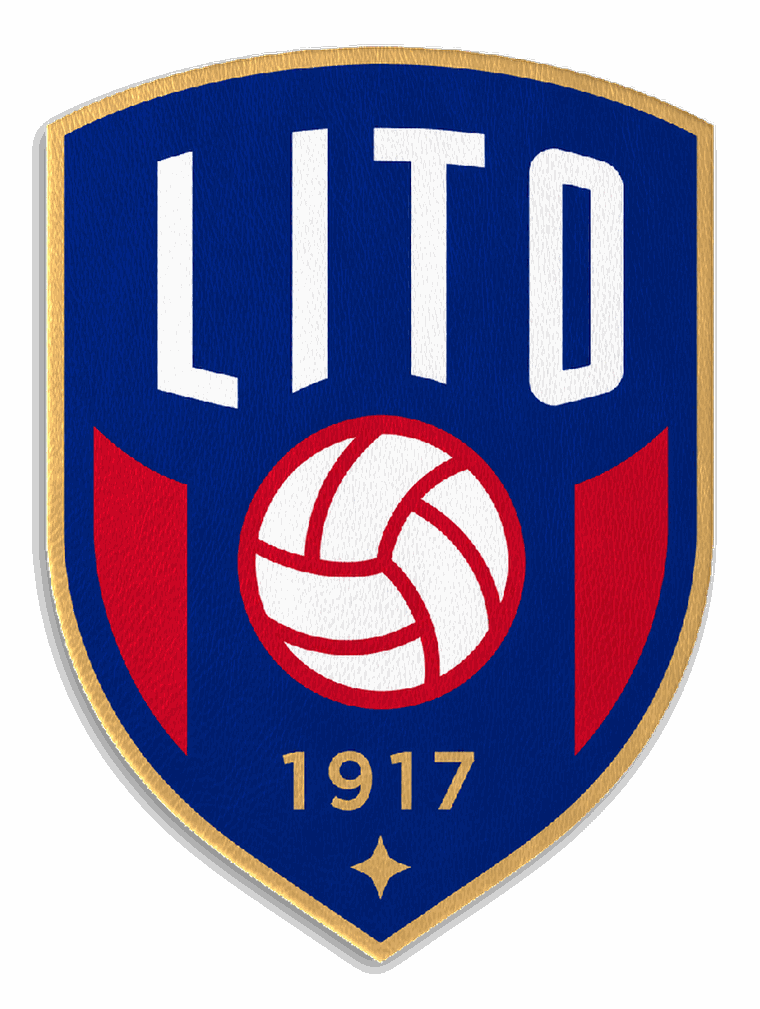
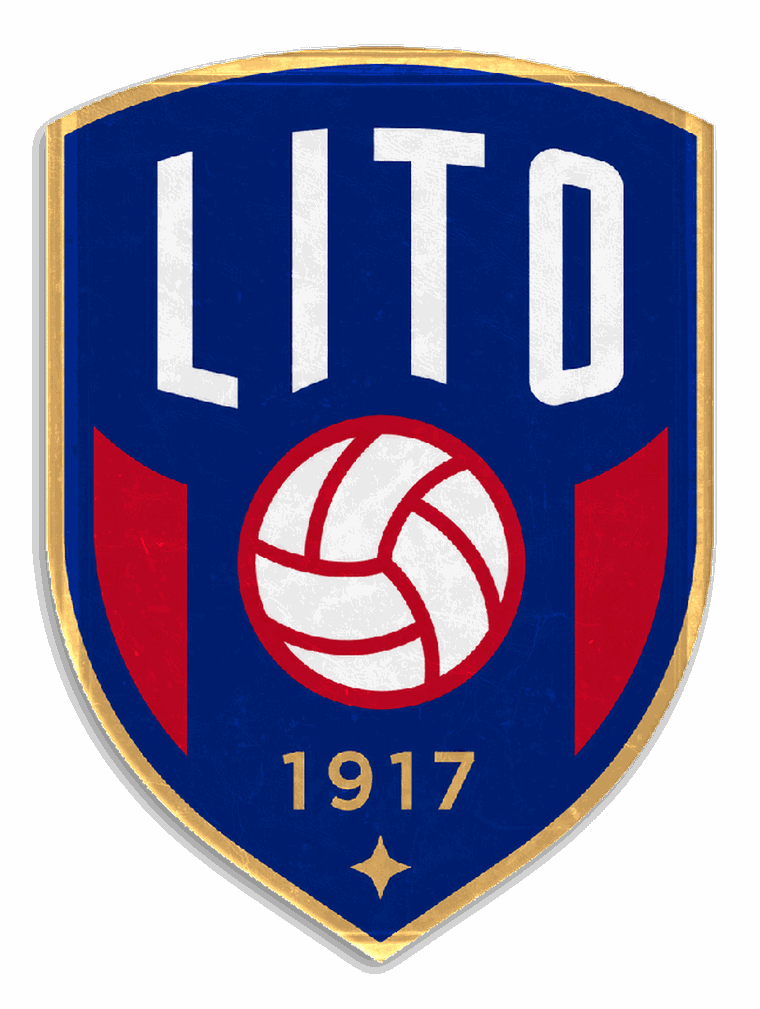
La tapa y el lomo pasan a ser fotográficos
- tapa.jpg: cuero azul envejecido con filete dorado, esquinas peladas y grano
  cuarteado. Va en la tapa y en la contratapa. Como el filete viene impreso en
  la foto, el CSS deja de dibujar el suyo y el contenido se acomoda con padding
  porcentual para caer dentro del marco.
- lomo.jpg: lomo con cinco nervios y filetes de oro, sobre la cara del lomo.
- El troquel del escudo vuelve a hornearse tomando el grano de la tapa nueva,
  para que no arrastre el del cuero anterior.
- Se retira desgaste.png: la foto ya trae su propio desgaste y la capa quedaba
  sumando ruido sobre ruido.

Claude-Session: https://claude.ai/code/session_016RdKxc9NMecg14L2oBtH98

diff --git a/assets/css/main.css b/assets/css/main.css
@@ -278,18 +278,11 @@ p { margin: 0 0 1.05em; max-width: 66ch; }
   transform: rotateY(90deg);
   background-color: var(--cuero);
   background-image:
-    repeating-linear-gradient(180deg,
-      transparent 0 52px,
-      rgba(0, 0, 0, .5) 52px 55px,
-      rgba(255, 236, 200, .16) 55px 63px,
-      rgba(212, 168, 90, .3) 63px 65px,
-      rgba(0, 0, 0, .42) 65px 69px,
-      transparent 69px 116px),
-    linear-gradient(90deg, rgba(0, 0, 0, .55), rgba(255, 236, 200, .07) 42%, rgba(0, 0, 0, .5)),
-    url('../img/texturas/desgaste.png'),
-    url('../img/texturas/cuero.jpg');
-  background-size: auto, auto, cover, cover;
-  box-shadow: inset 0 0 22px rgba(0, 0, 0, .5);
+    linear-gradient(90deg, rgba(0, 0, 0, .5), rgba(255, 255, 255, .04) 45%, rgba(0, 0, 0, .42)),
+    url('../img/texturas/lomo.jpg');
+  background-size: cover;
+  background-position: center;
+  box-shadow: inset 0 0 22px rgba(0, 0, 0, .45);
 }
 
 /* Canto de cabeza: las hojas vistas desde arriba */
@@ -326,9 +319,8 @@ p { margin: 0 0 1.05em; max-width: 66ch; }
   transform: translateZ(calc(var(--grosor) * -1));
   background-color: var(--cuero);
   background-image:
-    linear-gradient(160deg, rgba(15, 26, 64, .6), rgba(8, 14, 38, .8)),
-    url('../img/texturas/desgaste.png'),
-    url('../img/texturas/cuero.jpg');
+    linear-gradient(160deg, rgba(8, 14, 38, .55), rgba(4, 7, 20, .72)),
+    url('../img/texturas/tapa.jpg');
   background-size: cover;
   border-radius: 3px 8px 8px 3px;
   box-shadow: 0 38px 60px rgba(0, 0, 0, .6);
@@ -356,52 +348,23 @@ p { margin: 0 0 1.05em; max-width: 66ch; }
 .cara-frente {
   background-color: var(--cuero);
   background-image:
-    url('../img/texturas/desgaste.png'),
-    radial-gradient(circle at 99% 2%, rgba(176, 184, 205, .3), transparent 9%),
-    radial-gradient(circle at 99% 98%, rgba(176, 184, 205, .26), transparent 8%),
-    radial-gradient(circle at 4% 99%, rgba(176, 184, 205, .2), transparent 7%),
-    radial-gradient(ellipse at 76% 14%, rgba(255, 236, 200, .1), transparent 54%),
-    radial-gradient(ellipse at 88% 96%, rgba(212, 168, 90, .09), transparent 46%),
-    linear-gradient(160deg, rgba(15, 26, 64, .52), rgba(15, 26, 64, .38) 58%, rgba(8, 14, 38, .74)),
-    url('../img/texturas/cuero.jpg');
-  background-size: cover, cover, cover, cover;
-  background-repeat: no-repeat;
+    radial-gradient(ellipse at 76% 12%, rgba(255, 236, 200, .13), transparent 52%),
+    linear-gradient(160deg, rgba(255, 255, 255, .05), rgba(6, 10, 28, .2) 70%, rgba(4, 7, 20, .36)),
+    url('../img/texturas/tapa.jpg');
+  background-size: cover;
   background-position: center;
-  box-shadow: inset -14px 0 34px rgba(0, 0, 0, .45), 0 30px 66px rgba(0, 0, 0, .62);
+  background-repeat: no-repeat;
+  box-shadow:
+    inset -12px 0 30px rgba(0, 0, 0, .38),
+    inset 0 0 70px rgba(0, 0, 0, .22),
+    0 30px 66px rgba(0, 0, 0, .62);
   display: grid;
+  /* El filete dorado ya viene impreso en la foto: el contenido va adentro. */
   grid-template-rows: 1fr auto auto 1fr;
   justify-items: center;
   align-items: center;
-  padding: clamp(26px, 5vw, 40px) clamp(20px, 4vw, 32px);
+  padding: 13% 14% 12.5%;
   text-align: center;
-}
-
-/* Nervios del lomo */
-.cara-frente::before {
-  content: "";
-  position: absolute; left: 0; top: 0; bottom: 0; width: 17px;
-  background:
-    linear-gradient(90deg, rgba(0, 0, 0, .34), rgba(0, 0, 0, .1) 70%, transparent),
-    repeating-linear-gradient(180deg,
-      transparent 0 52px,
-      rgba(0, 0, 0, .22) 52px 55px,
-      rgba(212, 168, 90, .2) 55px 57px,
-      transparent 57px 60px);
-}
-
-/* Filete dorado doble */
-.cara-frente::after {
-  content: "";
-  position: absolute; inset: 15px 13px 15px 26px;
-  border: 1.5px solid rgba(212, 168, 90, .66);
-  border-radius: 2px;
-  box-shadow:
-    inset 0 0 0 3px rgba(15, 26, 64, .55),
-    inset 0 0 0 4.5px rgba(212, 168, 90, .3),
-    inset 0 0 0 10px rgba(0, 0, 0, .16),
-    inset 0 0 0 11px rgba(255, 236, 200, .07),
-    0 1px 0 rgba(255, 236, 200, .08);
-  pointer-events: none;
 }
 
 .grabado-arriba, .grabado-abajo {

diff --git a/README.md b/README.md
@@ -124,13 +124,19 @@ tocar el CSS:
 | Archivo | Dónde se usa | Cómo conviene que sea |
 | --- | --- | --- |
 | `fondo.jpg` | Fondo de la portada | Apaisada y oscura en los bordes, con una superficie clara donde apoyar el libro |
-| `cuero.jpg` | Tapa del libro | Grano parejo, sin costuras ni cantos; se usa recortada a `cover` |
+| `tapa.jpg` | Tapa y contratapa | Tapa de cuero fotografiada de frente, con su filete dorado impreso. El escudo y las letras se componen encima en CSS |
+| `lomo.jpg` | Lomo del tomo | Lomo con nervios, de frente y vertical; se recorta a `cover` sobre una cara de 58 px |
+| `cuero.jpg` | (sin uso hoy) | Quedó de la etapa anterior; el troquel del escudo ya toma su grano de `tapa.jpg` |
 | `papel.jpg` | Hojas y guarda | **Tiene que repetir sin costura**: se repite en mosaico de 520 px |
-| `desgaste.png` | Tapa, lomo y contratapa | Capa RGBA de rozaduras y rayones, generada por código. Se estira a `cover`, no repite |
 
 El papel del repositorio es un mosaico espejado y llevado al hueso del manual
 (`#F4EFE6`), para que la trama no cante y el color siga siendo el de la marca.
 Si se reemplaza por una foto cruda, el mosaico se va a notar.
+
+**La tapa trae su propio filete dorado.** Por eso `.cara-frente` no dibuja
+ningún marco y el contenido va con `padding: 13% 14% 12.5%`, que es lo que lo
+mantiene dentro del filete de la foto. Si se cambia la foto de tapa hay que
+volver a medir ese padding contra el nuevo marco.
 
 ## Reglas de marca que el sitio respeta
 
